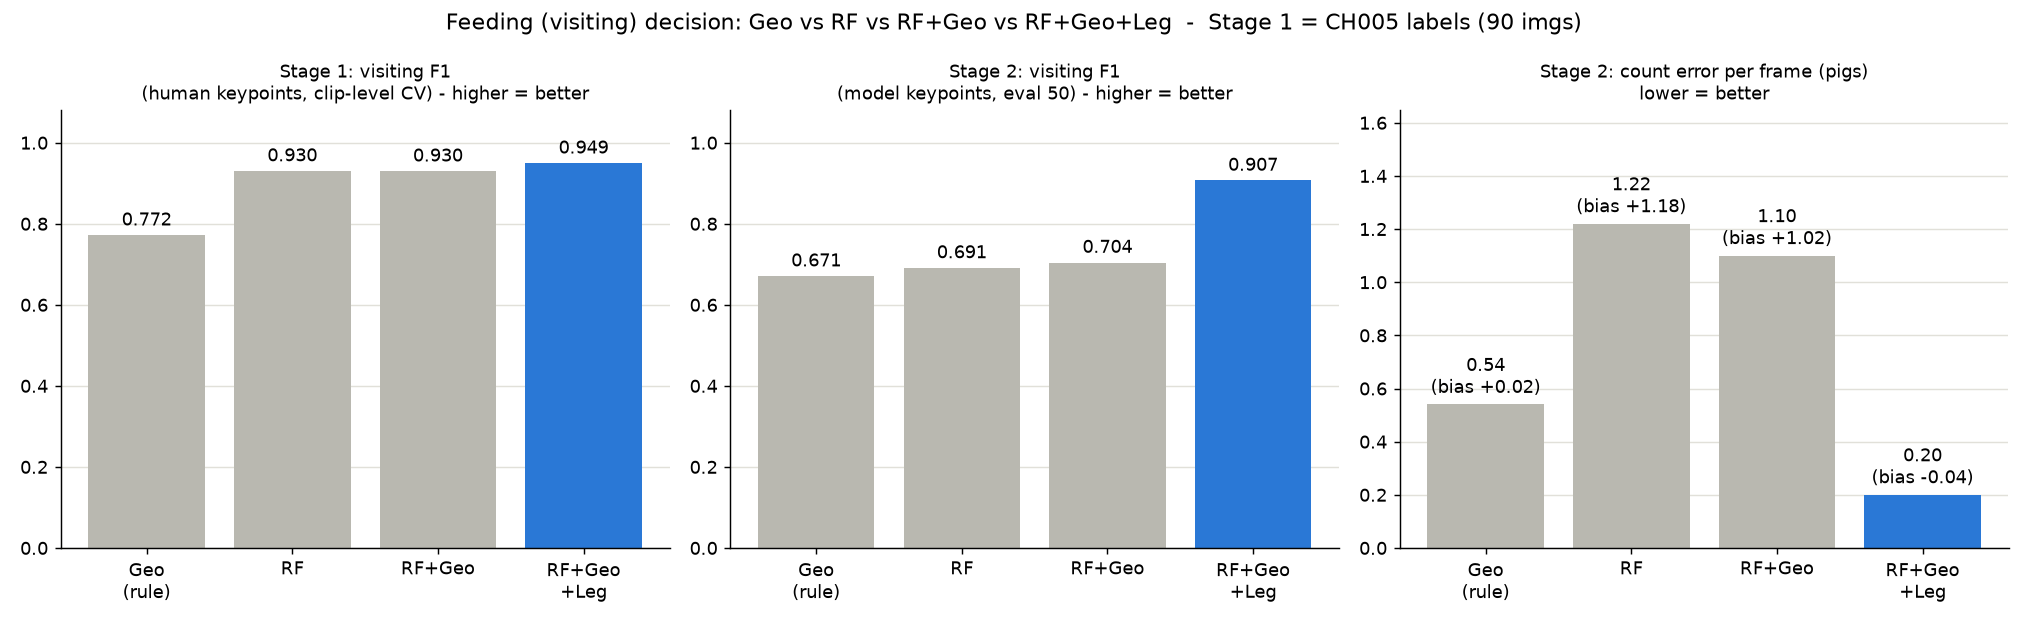
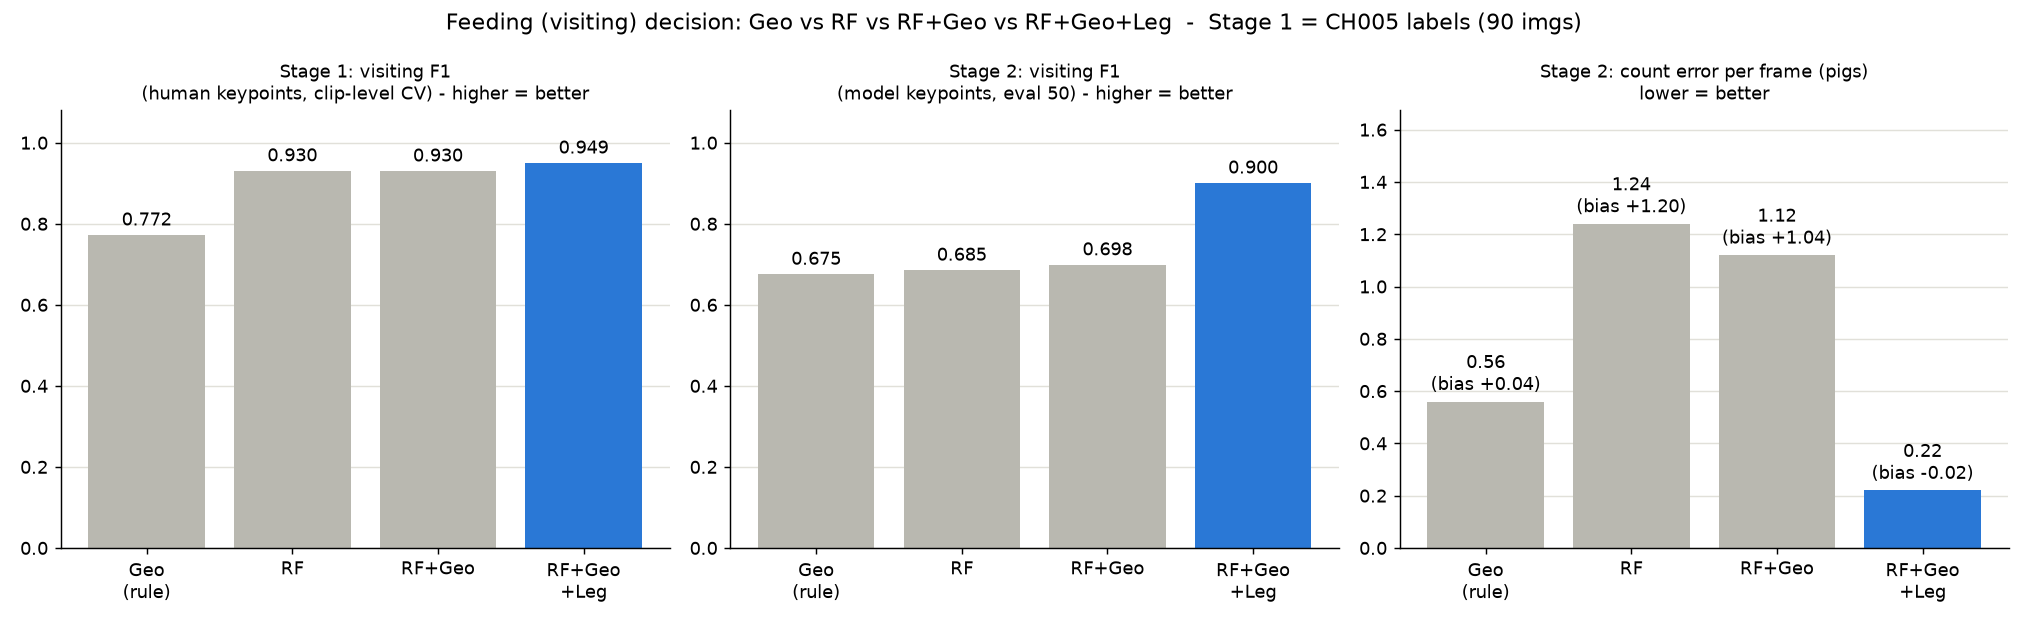
Update Stage 2 scores (Geo ablation, method comparison)

diff --git a/PROGRESS.md b/PROGRESS.md
@@ -132,7 +132,7 @@ CCTV 영상 ─(1초에 1장)→ 포즈 모델(YOLOv8m-pose) ─→ 돼지마다
 - **결과**: 1초 샘플 1,474개(읽기 실패 7개), 약 12분 소요. 1분 평균 0~2.4마리, 10분 평균 0.95 → 1.19 → 1.59마리.
 
 > ⚠ **정답 확인 필요** — 모델이 센 추정치입니다. 이 영상의 시간대별 마릿수를 사람이 센 정답은 없습니다.
-> (같은 방법의 정확도는 아래 "Geo 조건별 비교"의 평가 50장으로 간접 확인: 사진당 오차 0.54마리, 치우침 +0.02)
+> (같은 방법의 정확도는 아래 "Geo 조건별 비교"의 평가 50장으로 간접 확인: 사진당 오차 0.56마리, 치우침 +0.04)
 
 ![25분 클립 1분 단위](docs/figures/ch010_25min_1min.png)
 
@@ -157,7 +157,7 @@ CCTV 영상 ─(1초에 1장)→ 포즈 모델(YOLOv8m-pose) ─→ 돼지마다
 | 평가 50장 이미지 | `counting/data/labels/eval50_img/` |
 | CH010 7/16 영상 8개 (KST 10:26~13:32) | `counting/data/raw/CH010_20260716/` |
 
-- XML에는 100장이 있지만 평가 목록 50장만 사용(나머지 50장은 전부 Unlabeling). 평가 50장 = 사람 라벨 **495마리** (visiting 83 / other 412).
+- 평가 50장 = 사람 라벨 **495마리** (visiting 82 / other 413).
 
 ### ⑤ Geo 조건별 비교 (Stage 2)
 
@@ -172,11 +172,11 @@ CCTV 영상 ─(1초에 1장)→ 포즈 모델(YOLOv8m-pose) ─→ 돼지마다
 
 | 설정 | visiting F1 | precision | recall | 마릿수 MAE | 치우침(bias) |
 |---|---|---|---|---|---|
-| 방향 60° (현재) | 0.671 | 0.679 | 0.663 | **0.54** | **+0.02** |
-| 방향 90° | **0.713** | 0.638 | 0.807 | 0.66 | +0.50 |
-| 방향 조건 끔 | 0.688 | 0.551 | 0.916 | 1.24 | +1.20 |
-| 60° + 누움 조건 | 0.000 | – | 0.000 | 1.66 | −1.66 |
-| 방향 끔 + 누움 조건 | 0.000 | – | 0.000 | 1.66 | −1.66 |
+| 방향 60° (현재) | 0.675 | 0.679 | 0.671 | **0.56** | **+0.04** |
+| 방향 90° | **0.706** | 0.629 | 0.805 | 0.68 | +0.52 |
+| 방향 조건 끔 | 0.682 | 0.543 | 0.915 | 1.26 | +1.22 |
+| 60° + 누움 조건 | 0.000 | – | 0.000 | 1.64 | −1.64 |
+| 방향 끔 + 누움 조건 | 0.000 | – | 0.000 | 1.64 | −1.64 |
 
 ![Geo 조건별 비교](docs/figures/geo_ablation.png)
 
@@ -187,7 +187,7 @@ CCTV 영상 ─(1초에 1장)→ 포즈 모델(YOLOv8m-pose) ─→ 돼지마다
 
 **결론**
 - 개별 판정(F1)은 **90°**가 가장 좋지만, 사진당 평균 0.5마리를 **더 세는** 경향이 있습니다.
-- 그래프로 보여 줄 **마릿수는 60°(현재)가 가장 정확**합니다 (평균 0.54마리 오차, 거의 치우침 없음).
+- 그래프로 보여 줄 **마릿수는 60°(현재)가 가장 정확**합니다 (평균 0.56마리 오차, 거의 치우침 없음).
 - 방향을 끄면 사료통 근처에 있기만 해도 세서 1.2마리씩 **과대 집계** → 방향 조건이 필요하다는 근거.
 - 누움 조건을 켜면 **한 마리도 "먹는 중"으로 안 나옵니다**(F1 0). 이 조건은 관절 **confidence**로 누움을 판단하는데,
   CH010처럼 위에서 내려다본 화면에서는 이 신호가 제대로 동작하지 않습니다. 기준값만 다시 맞추면 해결되는지는 확인되지 않았고,
@@ -200,7 +200,7 @@ CCTV 영상 ─(1초에 1장)→ 포즈 모델(YOLOv8m-pose) ─→ 돼지마다
   `plot_day.py`로 클립별 `_1s.csv`를 시간순으로 이어 붙여 시계 기준 10분 구간(10:20, 10:30, …)으로 평균.
 
 > ⚠ **정답 확인 필요** — 모델이 센 추정치입니다. 이 영상의 시간대별 마릿수를 사람이 센 정답은 없습니다.
-> (같은 방법의 정확도는 위 "Geo 조건별 비교"의 평가 50장으로 간접 확인: 사진당 오차 0.54마리, 치우침 +0.02)
+> (같은 방법의 정확도는 위 "Geo 조건별 비교"의 평가 50장으로 간접 확인: 사진당 오차 0.56마리, 치우침 +0.04)
 
 | 시간 (KST) | 평균 마릿수 | 최대 | 비고 |
 |---|---|---|---|
@@ -278,10 +278,10 @@ CCTV 영상 ─(1초에 1장)→ 포즈 모델(YOLOv8m-pose) ─→ 돼지마다
 
 | 방법 | Stage 1 F1 | Stage 2 F1 | Stage 2 사진당 오차 (bias) | 마릿수 정확히 맞힌 사진 |
 |---|---|---|---|---|
-| Geo (규칙) | 0.772 | 0.671 | 0.54 (+0.02) | 48% |
-| RF | 0.930 | 0.691 | 1.22 (+1.18) | 18% |
-| RF+Geo | 0.930 | 0.704 | 1.10 (+1.02) | 22% |
-| **RF+Geo+Leg** | **0.949** | **0.907** | **0.20 (−0.04)** | **80%** |
+| Geo (규칙) | 0.772 | 0.675 | 0.56 (+0.04) | 46% |
+| RF | 0.930 | 0.685 | 1.24 (+1.20) | 18% |
+| RF+Geo | 0.930 | 0.698 | 1.12 (+1.04) | 22% |
+| **RF+Geo+Leg** | **0.949** | **0.900** | **0.22 (−0.02)** | **78%** |
 
 ![판정 방법 비교 (1차)](docs/figures/methods_001.png)
 
@@ -291,9 +291,9 @@ CCTV 영상 ─(1초에 1장)→ 포즈 모델(YOLOv8m-pose) ─→ 돼지마다
 - **오른쪽 (Stage 2)**: 사진 한 장마다 먹는 돼지 수를 몇 마리 틀렸나. 낮을수록 좋음. bias +는 과대 집계.
 
 **결론**
-- **RF+Geo+Leg가 세 칸 모두 1등.** Stage 2에서 F1 0.907, **사진당 오차 0.20마리**(Geo 0.54의 절반 이하), 80%의 사진에서 마릿수를 정확히 맞힘.
+- **RF+Geo+Leg가 세 칸 모두 1등.** Stage 2에서 F1 0.900, **사진당 오차 0.22마리**(Geo 0.56의 절반 이하), 78%의 사진에서 마릿수를 정확히 맞힘.
 - RF·RF+Geo는 Stage 1에서는 좋지만 Stage 2에서 **1마리 이상 과대 집계** → 사료통 근처에 **누워 있는 돼지**를 먹는 중으로 셈.
-  다리 특징을 넣자 이 오류가 거의 사라짐(잘못 센 수 55 → 5).
+  다리 특징을 넣자 이 오류가 거의 사라짐(잘못 센 수 56 → 6).
 - Geo 규칙이 놓친 visiting 43마리는 **모두 방향 조건(60°) 탈락** — 머리가 사료통 중심을 비스듬히 향한 경우.
 - RF+Geo+Leg 특징 중요도 상위: 코-사료통 거리/r 0.29, 코-구역 거리 0.25, 코가 구역 안 0.19, 다리 길이 0.08, 발 거리 0.07.
 - 다리 특징 중앙값 (Stage 1, 사람 관절):
@@ -388,8 +388,8 @@ CCTV 영상 ─(1초에 1장)→ 포즈 모델(YOLOv8m-pose) ─→ 돼지마다
 
 ### ⑩ Geo 설정 결정 — 방향 60°로 확정
 - **근거** (⑤ 11/05 Geo 조건별 비교, 평가 50장):
-  - 60°: 사진당 마릿수 오차 **0.54**, 치우침 **+0.02** — 그래프에 쓰이는 마릿수가 가장 정확.
-  - 90°: F1은 0.713으로 조금 높지만 오차 0.66, 치우침 **+0.50**(사진당 0.5마리 과대 집계).
+  - 60°: 사진당 마릿수 오차 **0.56**, 치우침 **+0.04** — 그래프에 쓰이는 마릿수가 가장 정확.
+  - 90°: F1은 0.706으로 조금 높지만 오차 0.68, 치우침 **+0.52**(사진당 0.5마리 과대 집계).
 - **적용**: `configs/farm_ch010.yaml`·`farm_ch005.yaml`·`farm_sample.yaml` 모두 60°(변경 없음).
   앞으로 비교 그래프의 Geo 선은 60°만 그림(`apply_methods.py`에서 `--geo dir90=...` 생략).
 - README 연구 계획도 4가지 방법·60° 확정·현재 결과로 갱신.

diff --git a/README.md b/README.md
@@ -88,10 +88,10 @@ cd counting
 
 | 방법 | Stage 1 F1 | Stage 2 F1 | Stage 2 사진당 마릿수 오차 (bias) |
 |---|---|---|---|
-| Geo (60°) | 0.772 | 0.671 | 0.54 (+0.02) |
-| RF | 0.930 | 0.691 | 1.22 (+1.18) |
-| RF+Geo | 0.930 | 0.704 | 1.10 (+1.02) |
-| **RF+Geo+Leg** | **0.949** | **0.907** | **0.20 (−0.04)** |
+| Geo (60°) | 0.772 | 0.675 | 0.56 (+0.04) |
+| RF | 0.930 | 0.685 | 1.24 (+1.20) |
+| RF+Geo | 0.930 | 0.698 | 1.12 (+1.04) |
+| **RF+Geo+Leg** | **0.949** | **0.900** | **0.22 (−0.02)** |
 
 - RF·RF+Geo는 사료통 옆에 **누워 있는 돼지**를 visiting으로 세어 과대 집계하고, 다리 특징을 넣으면 이 오류가 거의 사라집니다.
 - CH005로만 학습해 CH010에서 시험한 결과라, 카메라가 달라도 동작한다는 근거가 됩니다.
